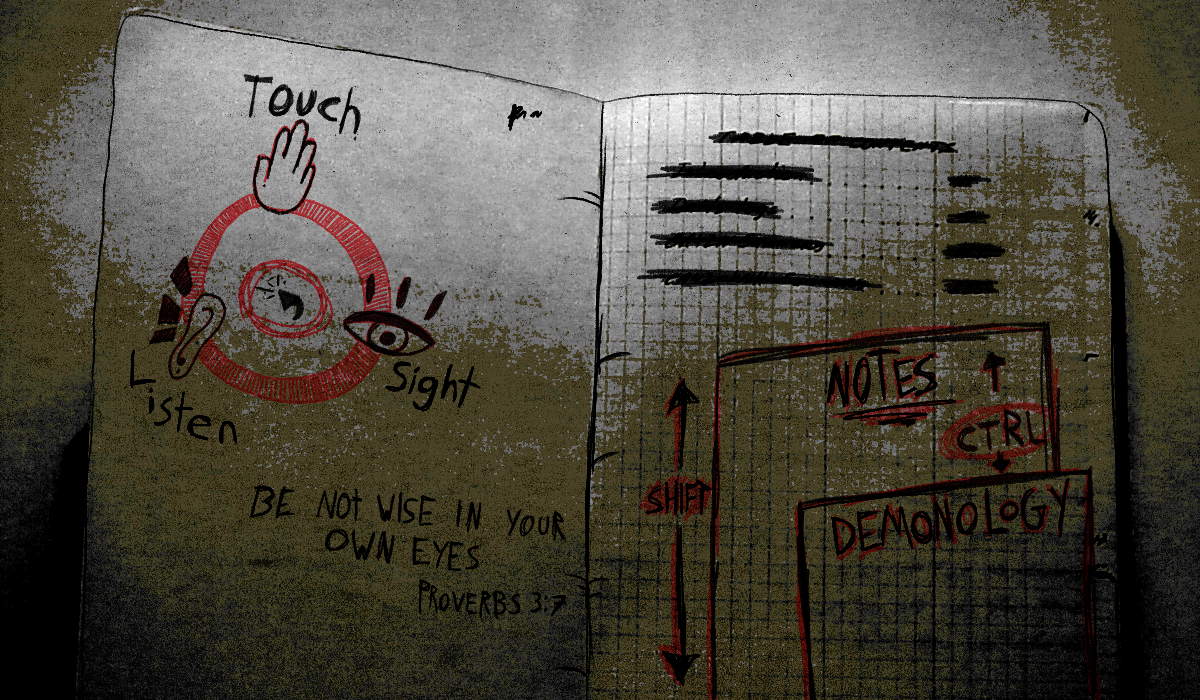
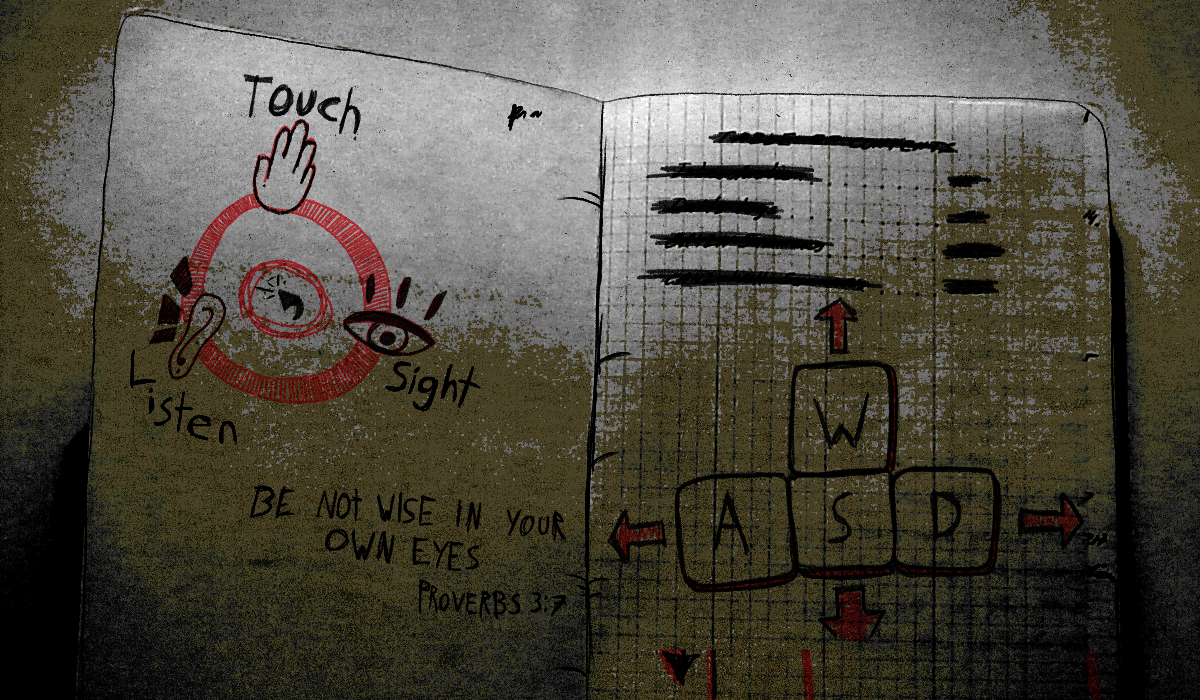
Project2: Minor updates
-Update instruction guide
-Updated field to allow volume control in SoundFX.js

Changed region(s): [[0.4933, 0.42, 0.925, 1.0], [0.8942, 0.93, 0.925, 0.96], [0.8942, 0.87, 0.925, 0.9]]

diff --git a/project2/js/gameareas/rooms/livingroom/HorseHead.js b/project2/js/gameareas/rooms/livingroom/HorseHead.js
@@ -1,0 +1,46 @@
+//HORSE HEAD IN LIVING ROOM//
+class HorseHead extends WheelObject {
+
+//ADJUSTS DIMENSIONS OF HITBOX//
+  constructor(x,y){
+    super(x,y,85,65);
+    this.x = 1080;
+    this.y = 368;
+
+  //FLIP TRUE AND FALSE IN ACCORDANCE TO WHETHER ATTRIBUTE IS ACTIVE//
+    this.soundActive = false;
+    this.sightActive = true;
+    this.touchActive = true;
+  }
+
+  //FILL IN DESCRIPTION SET TO PRODUCE TEXT//
+  onSight(){
+    console.log('sightHit');
+    descriptionSet('A statue of a pale horse head.\nIt looks like it\'s made out of marble');
+  }
+
+  onSound(){
+    console.log('soundHit');
+    // descriptionSet('');
+  }
+
+  onTouch(){
+    console.log('touchHit');
+    descriptionSet('It feels weighty. ');
+  }
+
+  run(){
+    //HANDLED IN UNIVERSALROOM//
+  }
+
+  //DRAWS HITBOX; LEAVE ALONE FOR COLLISION DETECTION TO WORK//
+  draw(){
+    push();
+    fill(255,125);
+    // noFill();
+    noStroke();
+    rect(this.x,this.y,this.width,this.height);
+    pop();
+  }
+
+}

diff --git a/project2/js/gameareas/rooms/livingroom/LivingRoom.js b/project2/js/gameareas/rooms/livingroom/LivingRoom.js
@@ -9,9 +9,10 @@ class LivingRoom extends UniversalRoom {
     this.roomObjects.push(new Wallcrack(width/2,height/2));
     this.roomObjects.push(new Armchair(width/2,height/2));
     this.roomObjects.push(new File(width/2,height/2));
+    this.roomObjects.push(new HorseHead(width/2,height/2));
     this.roomObjects.push(new Navigation(1430,470,80,152,'diningroom'));
     this.roomObjects.push(new Navigation(36,360,100,70,'fronthall'));
-    this.roomObjects.push(new SoundFX(1295,95,50,50,clockSound,this));
+    this.roomObjects.push(new SoundFX(1295,95,50,50,clockSound,this,0.1));
   }
 
   draw(){

diff --git a/project2/js/engine/SoundFX.js b/project2/js/engine/SoundFX.js
@@ -1,8 +1,9 @@
 class SoundFX extends Interactable {
-  constructor(x,y,w,h,soundFX,hostRoom) {
+  constructor(x,y,w,h,soundFX,hostRoom,volume) {
     super(x,y,w,h);
     this.soundFX = soundFX;
     this.hostRoom = hostRoom;
+    this.volume = volume;
   }
 
   run() {
@@ -22,6 +23,7 @@ class SoundFX extends Interactable {
   }
 
   onEnter() {
+    this.soundFX.setVolume(this.volume)
     this.soundFX.loop();
   }
 

diff --git a/project2/index.html b/project2/index.html
@@ -38,6 +38,7 @@
   <script src="js/gameareas/rooms/livingroom/Wallcrack.js"></script>
   <script src="js/gameareas/rooms/livingroom/Armchair.js"></script>
   <script src="js/gameareas/rooms/livingroom/File.js"></script>
+  <script src="js/gameareas/rooms/livingroom/HorseHead.js"></script>
 
   <script src="js/gameareas/rooms/kitchen/Kitchen.js"></script>
 

diff --git a/project2/js/script.js b/project2/js/script.js
@@ -5,7 +5,7 @@ MADELINE ZAYTSOFF
 A POINT AND CLICK HORROR ADVENTURE
 **************************************************/
 //GLOBAL VARIABLE FOR MENU NAVIGATION//
-let menu = 'clickToStart';
+let menu = 'livingroom';
 let menuOnEnter;
 
 //OBJ NAMES//
